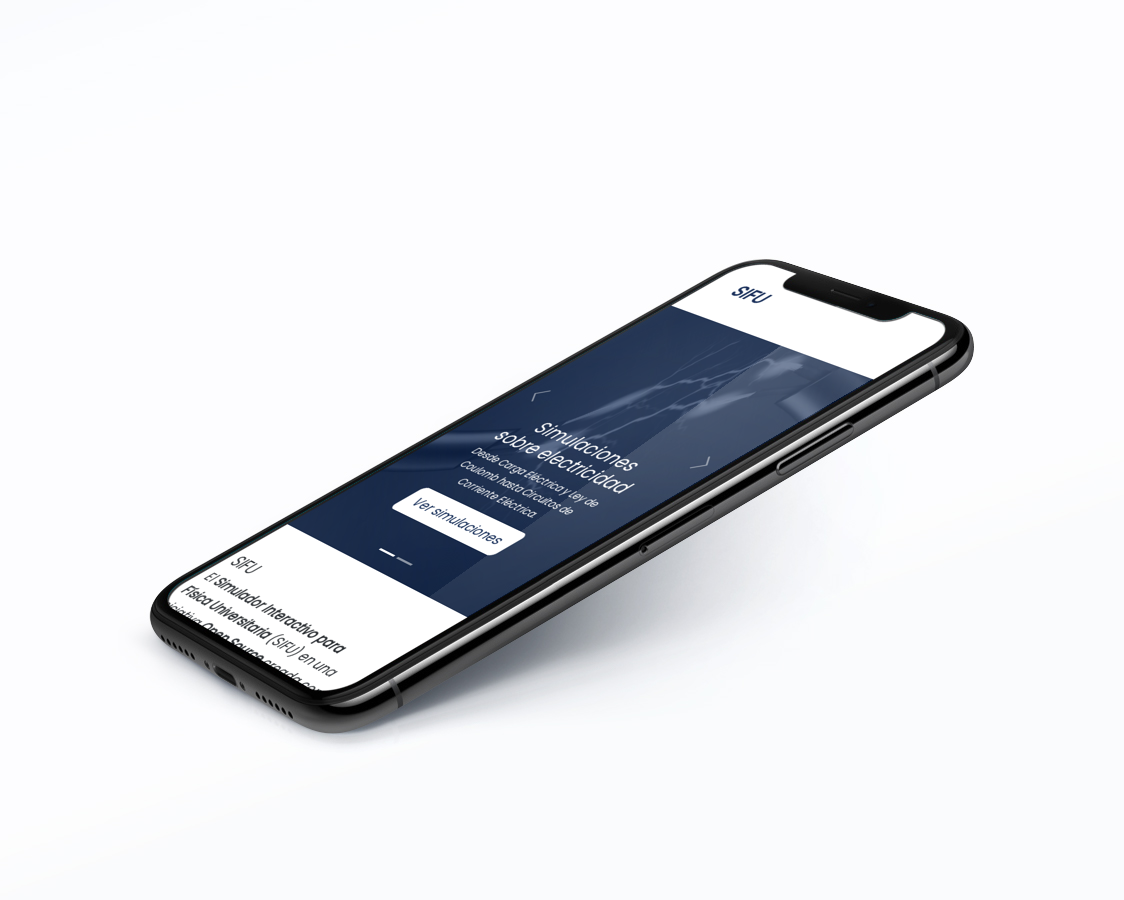
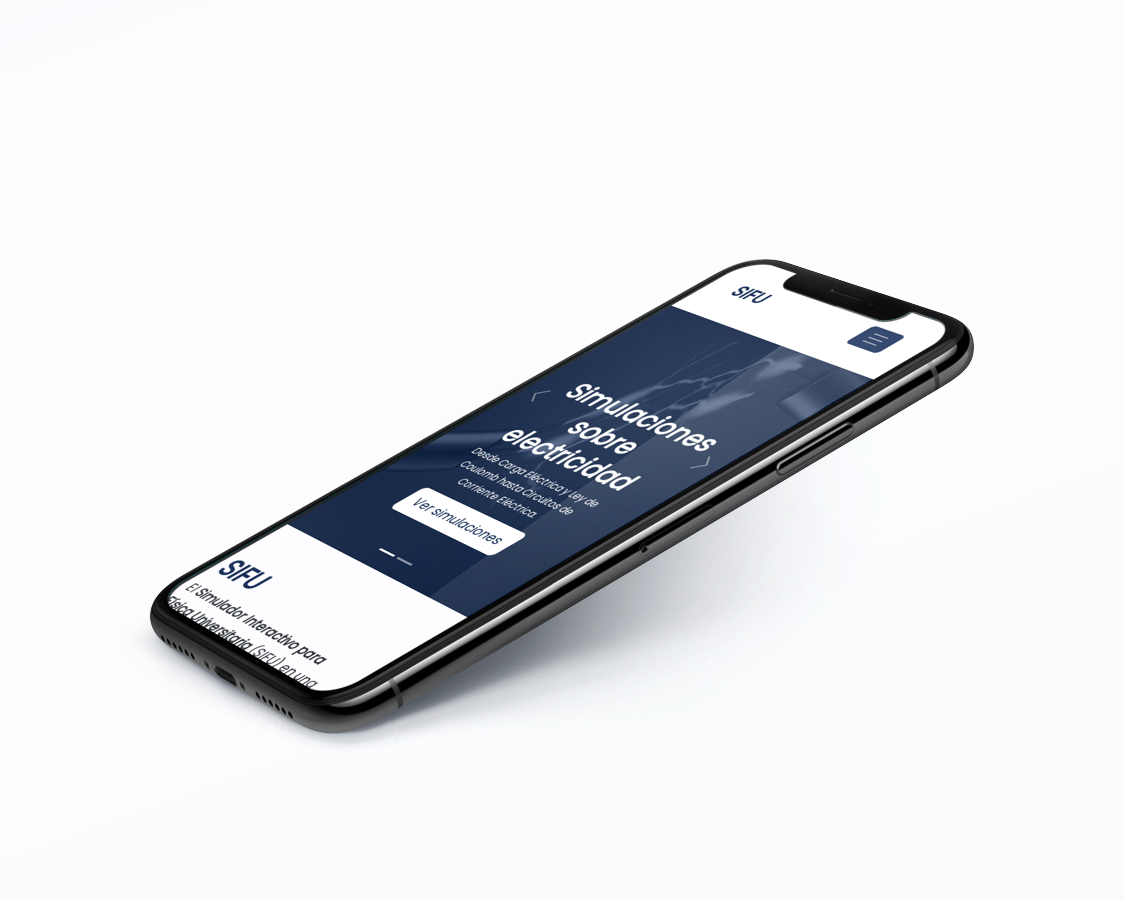
Primer avance sustancial del Inicio

Changed region(s): [[0.4359, 0.4044, 0.6539, 0.56], [0.1557, 0.6222, 0.3114, 0.7778], [0.7473, 0.3422, 0.8096, 0.4044]]

diff --git a/simulaciones.html b/simulaciones.html
@@ -21,10 +21,10 @@
                 <div class="collapse navbar-collapse" id="navbarCollapse">
                     <ul class="navbar-nav ms-auto mb-2 mb-md-0">
                         <li class="nav-item">
-                            <a class="nav-link seleccionado" aria-current="page" href="#">Inicio</a>
+                            <a class="nav-link" href="index.html">Inicio</a>
                         </li>
                         <li class="nav-item">
-                            <a class="nav-link" href="simulaciones.html">Simulaciones</a>
+                            <a class="nav-link seleccionado" href="simulaciones.html">Simulaciones</a>
                         </li>
                         <li class="nav-item">
                             <a class="nav-link" href="contacto.html">Contacto</a>
@@ -35,116 +35,159 @@
         </nav>
     </header>
     <main class="fondo-blanco">
-        <div id="myCarousel" class="carousel slide" data-bs-ride="carousel">
-        <div class="carousel-indicators">
-            <button type="button" data-bs-target="#myCarousel" data-bs-slide-to="0" class="active" aria-current="true" aria-label="Slide 1"></button>
-            <button type="button" data-bs-target="#myCarousel" data-bs-slide-to="1" aria-label="Slide 2"></button>
-        </div>
-        <div class="carousel-inner">
-            <div class="carousel-item active">
-                <img class="bd-placeholder-img" width="100%" height="100%" src="img/electricidad.png"  aria-hidden="true" preserveAspectRatio="xMidYMid slice" focusable="false" alt="electricidad">
-                
-                <div class="container">
-                    <div class="carousel-caption">
-                        <h2 class="letras-blancas">Simulaciones sobre electricidad</h2>
-                        <p>Desde Carga Eléctrica y Ley de Coulomb hasta Circuitos de Corriente Eléctrica.</p>
-                        <p><a class="btn btn-lg btn-primary" href="simulaciones.html">Ver simulaciones</a></p>
-                    </div>
-                </div>
+
+        <section class="py-7 text-center no-hero">
+            <div class="row py-lg-5">
+              <div class="col-lg-6 col-md-8 mx-auto">
+                <h1 class="fw-light letras-blancas">Simulaciones</h1>
+              </div>
             </div>
-            <div class="carousel-item">
-                <img class="bd-placeholder-img" width="100%" height="100%" src="img/magnetismo.png"  aria-hidden="true" preserveAspectRatio="xMidYMid slice" focusable="false" alt="electricidad">
-                <div class="container">
-                    <div class="carousel-caption">
-                        <h2 class="letras-blancas" >Simulaciones sobre magnetismo</h2>
-                        <p>Desde Campo Magnético hasta Inducción Electromagnética.</p>
-                        <p><a class="btn btn-lg btn-primary" href="simulaciones.html">Ver simulaciones</a></p>
-                    </div>
-                </div>
-            </div>
-        </div>
-        <button class="carousel-control-prev" type="button" data-bs-target="#myCarousel" data-bs-slide="prev">
-            <span class="carousel-control-prev-icon" aria-hidden="true"></span>
-            <span class="visually-hidden">Anterior</span>
-        </button>
-        <button class="carousel-control-next" type="button" data-bs-target="#myCarousel" data-bs-slide="next">
-            <span class="carousel-control-next-icon" aria-hidden="true"></span>
-            <span class="visually-hidden">Siguiente</span>
-        </button>
-        </div>
+          </section>
 
 
-          
-
-
-
-        <div class="container">
-            <div class="row"><br>
-                <div class="col-md-7">
-                    <h2>SIFU</h2>
-                    <p class="lead">El <b>Simulador Interactivo para Física Universitaria</b> (SIFU) en una iniciativa <b>Open Source</b> creada con el fin de apoyar la enseñanza de temas de Física para Ciencias e Ingeniería</p>
-                    <p class="lead">En su última versión cuenta con simulaciones para los temas:</p>
-                    <ul>
-                            <li>Carga eléctrica y ley de Coulomb</li>
-                            <li>El Campo Electroestático</li>
-                            <li>Ley de Gauss para el Campo Eléctrico</li>
-                            <li>Potencial Electrostático</li>
-                            <li>Energía Potencial Electrostática</li>
-                        </ul>
-                    </ul>
-                </div>
-                <div class="col-md-5 my-auto">
-                    <img class="bd-placeholder-img bd-placeholder-img-lg featurette-image img-fluid mx-auto" width="500" height="500" src="img/sifu.png" alt="sifu">
-                </div>
-            </div>
-          <!-- /END THE FEATURETTES -->
-      
-        </div><!-- /.container -->
-
-
-
-
-
-          
-        <hr class="featurette-divider">
-
-        <div class="container marketing">
-
-            <!-- Three columns of text below the carousel -->
-            <div class="row ">
-                <h2 class="text-center py-5">EQUIPO DE TRABAJO</h2>
-            </div>
-            <div class="row">
-                
-                <div class="col-lg-4">
-                    <img src="img/jorge.jpeg" class="rounded-circle team-member" alt="jorge">
-                    <h2 class="fw-normal">Jorge Jesús<br><b>Quispe Villaverde</b></h2>
-                    <p>Lead Project & Developer</p>
-                    <a class="btn btn-primary btn-lg btn-floating" href="https://github.com/jorgektch" target="_blank" rel="noopener noreferrer">
-                        <i class="bi bi-github"></i>
-                    </a>
-                    
-                </div><!-- /.col-lg-4 -->
-                <div class="col-lg-4">
-                    <img src="img/edgardo.jpeg" class="rounded-circle team-member" alt="edgardo">
-                    <h2 class="fw-normal">Edgardo Juan<br><b>Barboza Rincón</b></h2>
-                    <p>Designer & Developer</p>
-                    <a class="btn btn-primary btn-lg btn-floating" href="https://github.com/EJJBR" target="_blank" rel="noopener noreferrer">
-                        <i class="bi bi-github"></i>
-                    </a>
-                </div><!-- /.col-lg-4 -->
-                <div class="col-lg-4">
-                    <img src="img/renzo.jpeg" class="rounded-circle team-member" alt="renzo">
-                    <h2 class="fw-normal">Renzo Jeanpier<br><b>Lozano Paredes</b></h2>
-                    <p>Designer & Developer</p>
-                    <a class="btn btn-primary btn-lg btn-floating" href="https://github.com/lozanorenzo" target="_blank" rel="noopener noreferrer">
-                        <i class="bi bi-github"></i>
-                    </a>
-                </div><!-- /.col-lg-4 -->
-            </div><!-- /.row -->
-        </div>
+        <div class="album py-5 bg-light">
+            <div class="container">
         
-
+              <div class="row row-cols-1 row-cols-sm-2 row-cols-md-3 g-3">
+                <div class="col">
+                  <div class="card shadow-sm">
+                    <svg class="bd-placeholder-img card-img-top" width="100%" height="225" xmlns="http://www.w3.org/2000/svg" role="img" aria-label="Placeholder: Thumbnail" preserveAspectRatio="xMidYMid slice" focusable="false"><title>Placeholder</title><rect width="100%" height="100%" fill="#55595c"/><text x="50%" y="50%" fill="#eceeef" dy=".3em">Thumbnail</text></svg>
+                    <div class="card-body">
+                      <p class="card-text">Carga eléctrica y ley de Coulomb</p>
+                      <div class="d-flex justify-content-between align-items-center">
+                        <div class="btn-group">
+                          <button type="button" class="btn btn-sm btn-outline-secondary">Ver</button>
+                        </div>
+                        <small class="text-muted">9 mins</small>
+                      </div>
+                    </div>
+                  </div>
+                </div>
+                <div class="col">
+                  <div class="card shadow-sm">
+                    <svg class="bd-placeholder-img card-img-top" width="100%" height="225" xmlns="http://www.w3.org/2000/svg" role="img" aria-label="Placeholder: Thumbnail" preserveAspectRatio="xMidYMid slice" focusable="false"><title>Placeholder</title><rect width="100%" height="100%" fill="#55595c"/><text x="50%" y="50%" fill="#eceeef" dy=".3em">Thumbnail</text></svg>
+                    <div class="card-body">
+                      <p class="card-text">This is a wider card with supporting text below as a natural lead-in to additional content. This content is a little bit longer.</p>
+                      <div class="d-flex justify-content-between align-items-center">
+                        <div class="btn-group">
+                          <button type="button" class="btn btn-sm btn-outline-secondary">View</button>
+                          <button type="button" class="btn btn-sm btn-outline-secondary">Edit</button>
+                        </div>
+                        <small class="text-muted">9 mins</small>
+                      </div>
+                    </div>
+                  </div>
+                </div>
+                <div class="col">
+                  <div class="card shadow-sm">
+                    <svg class="bd-placeholder-img card-img-top" width="100%" height="225" xmlns="http://www.w3.org/2000/svg" role="img" aria-label="Placeholder: Thumbnail" preserveAspectRatio="xMidYMid slice" focusable="false"><title>Placeholder</title><rect width="100%" height="100%" fill="#55595c"/><text x="50%" y="50%" fill="#eceeef" dy=".3em">Thumbnail</text></svg>
+                    <div class="card-body">
+                      <p class="card-text">This is a wider card with supporting text below as a natural lead-in to additional content. This content is a little bit longer.</p>
+                      <div class="d-flex justify-content-between align-items-center">
+                        <div class="btn-group">
+                          <button type="button" class="btn btn-sm btn-outline-secondary">View</button>
+                          <button type="button" class="btn btn-sm btn-outline-secondary">Edit</button>
+                        </div>
+                        <small class="text-muted">9 mins</small>
+                      </div>
+                    </div>
+                  </div>
+                </div>
+        
+                <div class="col">
+                  <div class="card shadow-sm">
+                    <svg class="bd-placeholder-img card-img-top" width="100%" height="225" xmlns="http://www.w3.org/2000/svg" role="img" aria-label="Placeholder: Thumbnail" preserveAspectRatio="xMidYMid slice" focusable="false"><title>Placeholder</title><rect width="100%" height="100%" fill="#55595c"/><text x="50%" y="50%" fill="#eceeef" dy=".3em">Thumbnail</text></svg>
+                    <div class="card-body">
+                      <p class="card-text">This is a wider card with supporting text below as a natural lead-in to additional content. This content is a little bit longer.</p>
+                      <div class="d-flex justify-content-between align-items-center">
+                        <div class="btn-group">
+                          <button type="button" class="btn btn-sm btn-outline-secondary">View</button>
+                          <button type="button" class="btn btn-sm btn-outline-secondary">Edit</button>
+                        </div>
+                        <small class="text-muted">9 mins</small>
+                      </div>
+                    </div>
+                  </div>
+                </div>
+                <div class="col">
+                  <div class="card shadow-sm">
+                    <svg class="bd-placeholder-img card-img-top" width="100%" height="225" xmlns="http://www.w3.org/2000/svg" role="img" aria-label="Placeholder: Thumbnail" preserveAspectRatio="xMidYMid slice" focusable="false"><title>Placeholder</title><rect width="100%" height="100%" fill="#55595c"/><text x="50%" y="50%" fill="#eceeef" dy=".3em">Thumbnail</text></svg>
+                    <div class="card-body">
+                      <p class="card-text">This is a wider card with supporting text below as a natural lead-in to additional content. This content is a little bit longer.</p>
+                      <div class="d-flex justify-content-between align-items-center">
+                        <div class="btn-group">
+                          <button type="button" class="btn btn-sm btn-outline-secondary">View</button>
+                          <button type="button" class="btn btn-sm btn-outline-secondary">Edit</button>
+                        </div>
+                        <small class="text-muted">9 mins</small>
+                      </div>
+                    </div>
+                  </div>
+                </div>
+                <div class="col">
+                  <div class="card shadow-sm">
+                    <svg class="bd-placeholder-img card-img-top" width="100%" height="225" xmlns="http://www.w3.org/2000/svg" role="img" aria-label="Placeholder: Thumbnail" preserveAspectRatio="xMidYMid slice" focusable="false"><title>Placeholder</title><rect width="100%" height="100%" fill="#55595c"/><text x="50%" y="50%" fill="#eceeef" dy=".3em">Thumbnail</text></svg>
+                    <div class="card-body">
+                      <p class="card-text">This is a wider card with supporting text below as a natural lead-in to additional content. This content is a little bit longer.</p>
+                      <div class="d-flex justify-content-between align-items-center">
+                        <div class="btn-group">
+                          <button type="button" class="btn btn-sm btn-outline-secondary">View</button>
+                          <button type="button" class="btn btn-sm btn-outline-secondary">Edit</button>
+                        </div>
+                        <small class="text-muted">9 mins</small>
+                      </div>
+                    </div>
+                  </div>
+                </div>
+        
+                <div class="col">
+                  <div class="card shadow-sm">
+                    <svg class="bd-placeholder-img card-img-top" width="100%" height="225" xmlns="http://www.w3.org/2000/svg" role="img" aria-label="Placeholder: Thumbnail" preserveAspectRatio="xMidYMid slice" focusable="false"><title>Placeholder</title><rect width="100%" height="100%" fill="#55595c"/><text x="50%" y="50%" fill="#eceeef" dy=".3em">Thumbnail</text></svg>
+                    <div class="card-body">
+                      <p class="card-text">This is a wider card with supporting text below as a natural lead-in to additional content. This content is a little bit longer.</p>
+                      <div class="d-flex justify-content-between align-items-center">
+                        <div class="btn-group">
+                          <button type="button" class="btn btn-sm btn-outline-secondary">View</button>
+                          <button type="button" class="btn btn-sm btn-outline-secondary">Edit</button>
+                        </div>
+                        <small class="text-muted">9 mins</small>
+                      </div>
+                    </div>
+                  </div>
+                </div>
+                <div class="col">
+                  <div class="card shadow-sm">
+                    <svg class="bd-placeholder-img card-img-top" width="100%" height="225" xmlns="http://www.w3.org/2000/svg" role="img" aria-label="Placeholder: Thumbnail" preserveAspectRatio="xMidYMid slice" focusable="false"><title>Placeholder</title><rect width="100%" height="100%" fill="#55595c"/><text x="50%" y="50%" fill="#eceeef" dy=".3em">Thumbnail</text></svg>
+                    <div class="card-body">
+                      <p class="card-text">This is a wider card with supporting text below as a natural lead-in to additional content. This content is a little bit longer.</p>
+                      <div class="d-flex justify-content-between align-items-center">
+                        <div class="btn-group">
+                          <button type="button" class="btn btn-sm btn-outline-secondary">View</button>
+                          <button type="button" class="btn btn-sm btn-outline-secondary">Edit</button>
+                        </div>
+                        <small class="text-muted">9 mins</small>
+                      </div>
+                    </div>
+                  </div>
+                </div>
+                <div class="col">
+                  <div class="card shadow-sm">
+                    <svg class="bd-placeholder-img card-img-top" width="100%" height="225" xmlns="http://www.w3.org/2000/svg" role="img" aria-label="Placeholder: Thumbnail" preserveAspectRatio="xMidYMid slice" focusable="false"><title>Placeholder</title><rect width="100%" height="100%" fill="#55595c"/><text x="50%" y="50%" fill="#eceeef" dy=".3em">Thumbnail</text></svg>
+                    <div class="card-body">
+                      <p class="card-text">This is a wider card with supporting text below as a natural lead-in to additional content. This content is a little bit longer.</p>
+                      <div class="d-flex justify-content-between align-items-center">
+                        <div class="btn-group">
+                          <button type="button" class="btn btn-sm btn-outline-secondary">View</button>
+                          <button type="button" class="btn btn-sm btn-outline-secondary">Edit</button>
+                        </div>
+                        <small class="text-muted">9 mins</small>
+                      </div>
+                    </div>
+                  </div>
+                </div>
+              </div>
+            </div>
+          </div>
 
 
         

diff --git a/contacto.html b/contacto.html
@@ -21,13 +21,13 @@
                 <div class="collapse navbar-collapse" id="navbarCollapse">
                     <ul class="navbar-nav ms-auto mb-2 mb-md-0">
                         <li class="nav-item">
-                            <a class="nav-link seleccionado" aria-current="page" href="#">Inicio</a>
+                            <a class="nav-link" href="index.html">Inicio</a>
                         </li>
                         <li class="nav-item">
                             <a class="nav-link" href="simulaciones.html">Simulaciones</a>
                         </li>
                         <li class="nav-item">
-                            <a class="nav-link" href="contacto.html">Contacto</a>
+                            <a class="nav-link seleccionado" href="contacto.html">Contacto</a>
                         </li>
                     </ul>
                 </div>

diff --git a/index.html b/index.html
@@ -21,7 +21,7 @@
                 <div class="collapse navbar-collapse" id="navbarCollapse">
                     <ul class="navbar-nav ms-auto mb-2 mb-md-0">
                         <li class="nav-item">
-                            <a class="nav-link seleccionado" aria-current="page" href="#">Inicio</a>
+                            <a class="nav-link seleccionado" href="index.html">Inicio</a>
                         </li>
                         <li class="nav-item">
                             <a class="nav-link" href="simulaciones.html">Simulaciones</a>

diff --git a/css/sifu-style.css b/css/sifu-style.css
@@ -18,6 +18,11 @@ h1, h2{
   color: white;
 }
 
+
+.no-hero{
+  margin-top: 8rem;
+  background-color: #011B49;
+}
 /* Barra de navegacion */
 
 .navbar {
